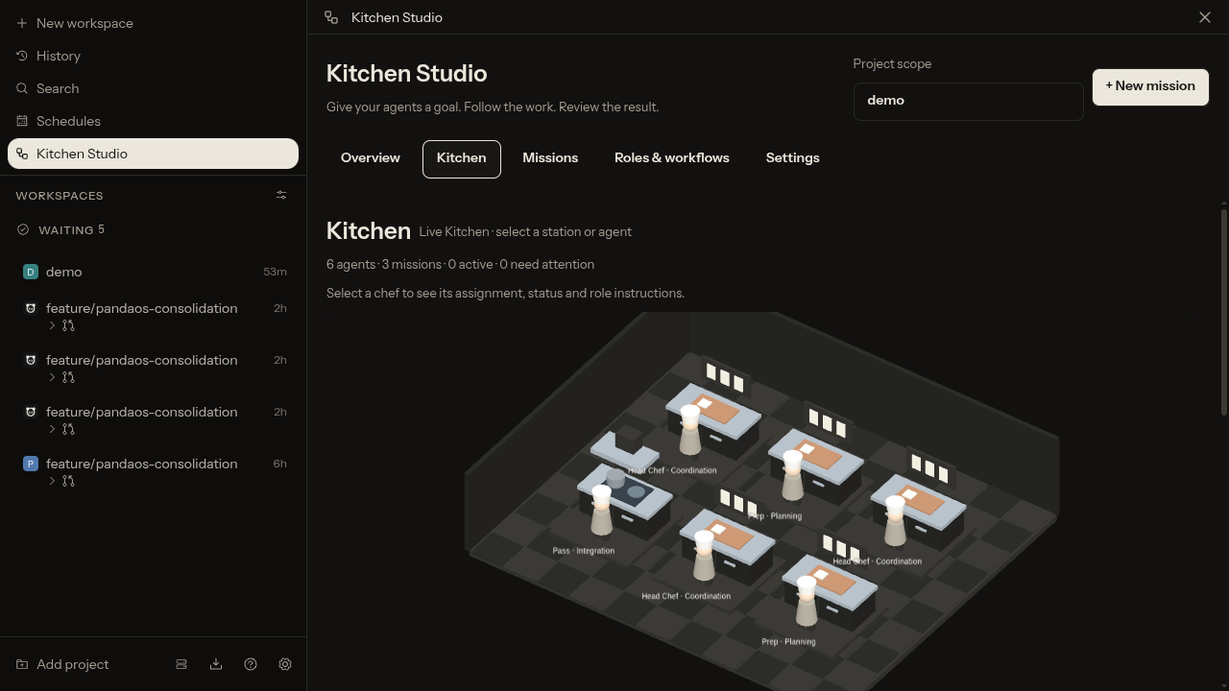
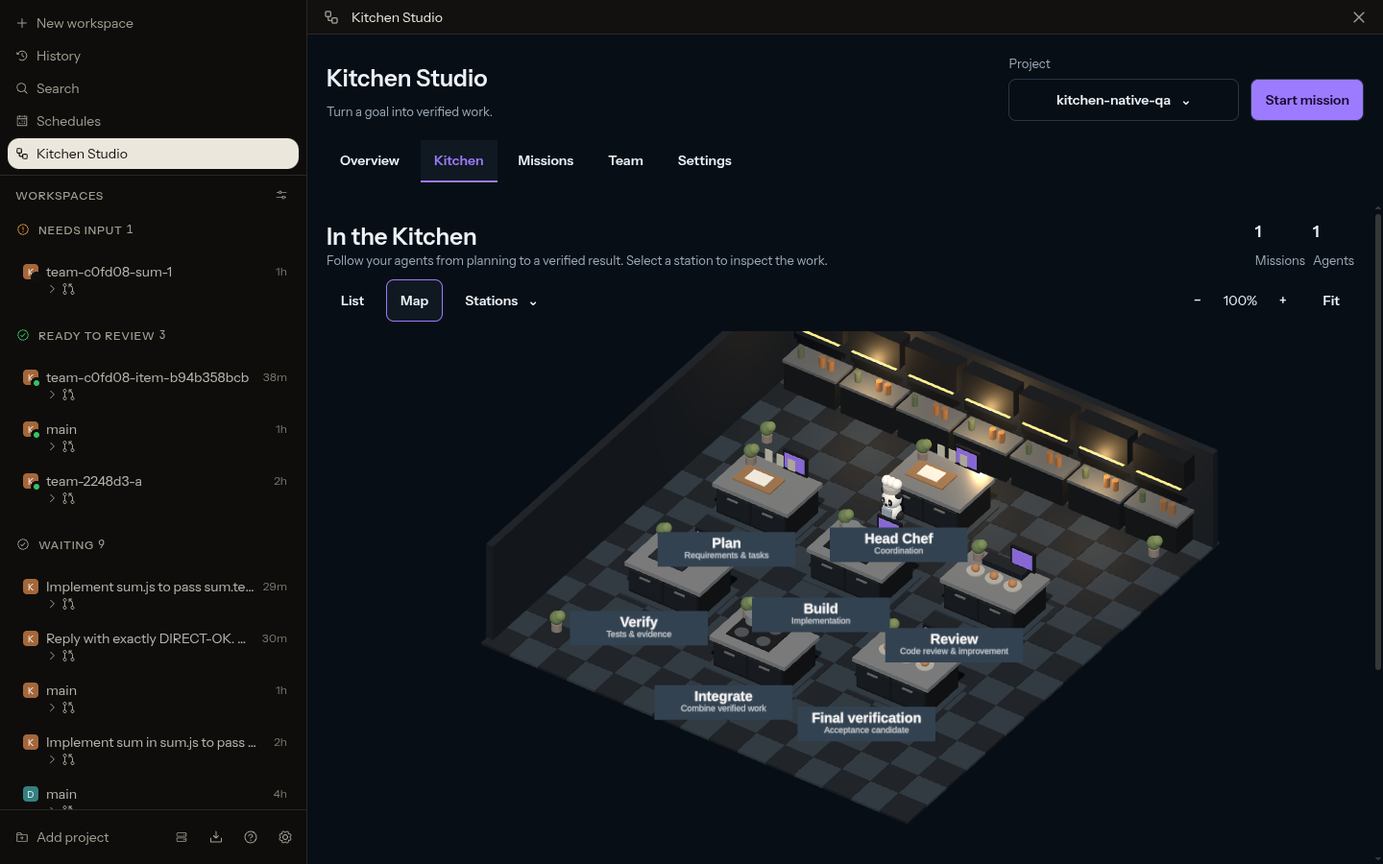
docs: explain native Kitchen flow with verified Studio screens

diff --git a/README.md b/README.md
@@ -1,6 +1,6 @@
 # Kitchen Studio
 
-A portable Paseo plugin for turning a goal into verified software. Give your Head Chef a feature, backlog or product goal, follow the agents in the live Kitchen, answer their questions and inspect the result before accepting it. The work dashboard and software factory share one plugin. Projects are selected once in the Studio header.
+A portable Paseo plugin for turning a goal into verified software. Give your Head Chef a feature, backlog or product goal, follow the agents in the live Kitchen, answer their questions and inspect the result before accepting it. The work dashboard and software factory share one plugin. Choose the project in the normal workspace composer; the Studio header scopes its mission views.
 
 A Head Chef coordinates remaining work, isolated developer worktrees, editable reviews, independent verification, combined integration and human acceptance. The plugin owns its persisted jobs, bindings, queue, evidence, runtime limits and Kitchen schedules. It uses public Paseo APIs and the public host CLI.
 
@@ -8,7 +8,7 @@ The hierarchy is inspired by [Agent Crew](https://paseo.cafe/plugins/agent-crew/
 
 ## Install and configure
 
-The plugin-only repository is [marushan491/paseo-kitchen](https://github.com/marushan491/paseo-kitchen). Clone it directly; the plugin is open source under Apache-2.0. Install it on a supported Paseo host; no source changes to the host are required.
+The plugin-only repository is [marushan491/paseo-kitchen](https://github.com/marushan491/paseo-kitchen). Clone it directly; the plugin is open source under Apache-2.0. Install it on a supported Paseo host. Runtime, Studio and CLI use public plugin APIs. The native composer entry needs the generic execution-mode capabilities described under [Host boundaries](#host-boundaries).
 
 Install dependencies, then install the cloned directory on the target host:
 
@@ -19,93 +19,185 @@ npm install --ignore-scripts
 paseo plugin install "$PWD"
 ```
 
-For PandaOS, use `pandaos plugin install` with the same directory. Enable plugins on that host. Open **Kitchen Studio** from the sidebar or command center. On hosts without a global plugin screen, open its workspace panel. Open **Settings → Connection & capacity**: choose the host connection once, then leave advanced fields collapsed. Configure:
+For PandaOS, use `pandaos plugin install` with the same directory. Set `pluginsEnabled: true` in the host's daemon configuration: installing a plugin does not enable the global plugin system. Run `paseo reload` (or `pandaos reload`) to apply that setting without restarting the daemon, then check `paseo plugin ls`.
+
+Open **Kitchen Studio** from the sidebar or command center. On hosts without a global plugin screen, open its workspace panel. Under **Settings → Connection & capacity → Advanced → Host connection**, choose this host's connection once. Keep advanced fields collapsed during ordinary use. Configure:
 
 | Setting                   | Value                                                                                                                                                    |
 | ------------------------- | -------------------------------------------------------------------------------------------------------------------------------------------------------- |
 | Data directory            | Leave empty when the host provides plugin storage. Otherwise choose an absolute directory outside all project checkouts, dedicated to this installation. |
 | Daemon home               | The absolute home of this host. An explicit inherited `PASEO_HOME` also works.                                                                           |
-| Daemon endpoint           | Alternative to Daemon home, pointing to this same host. Do not set both.                                                                                 |
+| Daemon WebSocket address  | Alternative to Daemon home, pointing to this same host. Do not set both.                                                                                 |
 | CLI executable            | `paseo`, `pandaos`, or the absolute path to the installed CLI.                                                                                           |
 | CLI arguments             | Optional argument prefix when the executable is a launcher.                                                                                              |
 | Pack directory            | Optional absolute directory containing trusted `<pack>/pack.mjs` modules.                                                                                |
-| Maximum concurrent agents | Requested concurrency across managed teams; the built-in runtime caps active Cooks at four.                                                              |
+| Maximum concurrent agents | Maximum simultaneous Cooks across this host’s managed teams. Default: four; accepts a positive integer.                                                  |
 
 Reload the plugin after changing storage, host, CLI or pack settings. Concurrency updates apply immediately. Kitchen preflight checks the configured CLI before creating agents. Every CLI mutation compares the selected agent with the public SDK snapshot to prevent operation against the wrong daemon. There is no implicit production-host fallback.
 
 ## Start your first mission
 
-1. Choose a project in the Studio header and click **New mission**.
-2. Describe the goal and the observable results under **Done when**. The goal can span several features.
-3. Keep **Until the goal is done**. The Head Chef plans work and agents can request the next scoped tasks and dependencies as they discover what remains.
-4. Open **Agent model** only to change the selected provider/model. **Roles & workflow** explains the built-in roles and lets you add instructions and installed skill names for each role.
-5. Click **Start Kitchen**. Follow the mission, answer questions in Team chat and inspect its verification evidence when it becomes **Ready for human**.
+1. Open the normal **New workspace** composer and choose the project and workspace context.
+2. Choose **Kitchen** as the execution mode, then choose its **team preset**.
+3. Explain the outcome, domain rules, constraints and observable success in the normal message. Attach screenshots, files and supported resource references as you would in a direct chat.
+4. Send. Kitchen creates one mission linked to an ordinary Head Chef session in that workspace. The draft remains until startup succeeds; retries reuse the request identity.
+5. Continue in that chat. **Open Kitchen** opens the same mission in the Studio. Review its actual evidence when Standard team reaches **Ready for human**.
 
-The default role chain is Head Chef → Developer → Reviewer → Verifier → Integrator → Final Verifier. You do not have to create profiles before starting. **Advanced options** contains execution classification, alternate packs, optional budgets and PR publication. Automatic execution uses the configured decision provider to choose Single or Team; it is separate from the host's model-selection setting.
+From Kitchen Studio, **Start mission** opens the same native composer with Kitchen and the current project selected. You do not fill out a separate title/goal/criteria form. The first complete message is the brief; planning turns it into scoped work and observable item criteria. Kitchen waits for the host to accept that initial message before dispatching work. Follow-up messages and their resource references stay attached to that mission. Images remain in the ordinary host conversation.
 
-The built-in Team Kitchen has no implicit token, cost, duration, delegation-depth or additional-item caps. Single execution does not delegate; external packs can define their own structural limits. The default capacity is four concurrent Cooks; queued work continues as capacity becomes available. An explicit budget remains binding. A missing provider quota, human answer or required evidence can pause progress; Kitchen resumes through its persisted runtime rather than inventing a successful result. It stops when the stated goal has a verified result and waits for acceptance. It does not automatically approve, merge or deploy.
+![Native Kitchen composer with a real unsent draft](docs/screenshots/native-composer.png)
+
+This is the normal composer with **Kitchen** selected. The pictured draft has not been sent; work starts only on Send.
+
+![Native team presets, including a saved custom team](docs/screenshots/team-presets.png)
+
+The picker shows **Standard team**, **Basic team** and the actually saved **Layout QA team** variant. Saving a team puts it in this host's catalog; it does not change a project default.
+
+The chat's persisted Kitchen mission card shows the selected team, current stage, mission status and observed working-agent count. **Open Kitchen** opens that same mission after a reload as well. Answer clarification questions in the normal Head Chef conversation. For Standard team, review and accept the verified result in the Studio's **Evidence** view.
+
+![Original Head Chef brief and persistent Kitchen mission card](docs/screenshots/native-chat.png)
+
+The original message and mission card remain in the ordinary conversation. Here the real mission is **Final result ready — Needs you**. **Review result** opens its evidence; acceptance is still pending. The image attachment is not displayed in this captured bubble.
+
+| Team preset       | Actual delivery path                                                                                                                                                                                                  |
+| ----------------- | --------------------------------------------------------------------------------------------------------------------------------------------------------------------------------------------------------------------- |
+| **Standard team** | Plan → Build → editable Review → independent Verify → Integrate → independent final verification → human acceptance.                                                                                                  |
+| **Basic team**    | Plan → Build → Test → Review → Done. A lighter pack without Standard team's final integration, independent final Verifier or acceptance gate.                                                                         |
+| **Project teams** | Available trusted external packs or saved custom delivery teams, using their own declared paths. A configured but unavailable default requires an explicit choice; Kitchen does not silently substitute another team. |
+
+Standard and Basic are friendly names for the persisted `kitchen` and `software-basic` packs. The native picker includes available external delivery packs and valid saved Standard-team variants. Insights, Gardener and Single remain available for their analytical or structured entry paths. **Manage teams** opens **Team** in Kitchen Studio. On a phone, open the **Team preset** sheet to find it; desktop also shows the action beside the preset.
+
+Standard team is goal-driven by default. The Head Chef plans work and permitted roles can request additional scoped tasks and dependencies as they discover what remains. Structured CLI/RPC starts can request a fixed plan instead. Team role/provider/model preferences belong in **Team** and project defaults, rather than a separate Developer selector in the Kitchen composer.
+
+The built-in Standard team has no implicit token, cost, active-time, delegation-depth or additional-item caps. The default capacity is four concurrent Cooks; configure a positive maximum under **Settings → Connection & capacity**. Queued work waits for a free slot. Explicit budgets and the selected pack's structural rules remain binding. Missing provider capacity, a required human answer or evidence can pause progress. The persisted runtime resumes work without inventing a successful result. Standard team waits for explicit acceptance after verification; it does not automatically approve, merge or deploy.
 
 ## Screens and navigation
 
-Screenshots below show an installed plugin in PandaOS using an isolated demo project and example historical mission records. They document the interface, not a claim that the example agents are currently working. Web and desktop have the 3D Kitchen; native clients retain the selectable role list.
+The Studio has one project selector. Choose **All projects** to see this host's missions across projects. Screenshots below show the verified interface in an isolated demo project. The live mission used free OpenCode Muse; deterministic layout checks did not call Jev or a paid model. A screenshot records an observed state and does not prove current agent activity.
 
-| Screen                | What you do here                                                                                                                                                                    |
-| --------------------- | ----------------------------------------------------------------------------------------------------------------------------------------------------------------------------------- |
-| **Overview**          | Find the next human action. **Needs you**, **Activity** and **Problems** share this page instead of duplicating navigation. Open a session, inspect its handoff or snooze an entry. |
-| **Kitchen**           | See actual role bindings at kitchen stations. Select a chef or role card to inspect its agent, open the mission or configure its next role agent.                                   |
-| **Missions**          | Start a goal, select a persisted run, answer questions in Team chat and inspect work items, dependencies and acceptance evidence.                                                   |
-| **Roles & workflows** | Read the standard responsibilities. Customize a role or save reusable instructions, ordered steps, skills and optional provider/model overrides.                                    |
-| **Settings**          | Set host connection and capacity once. Dashboard preferences, migration and automatic follow-up rules live in separate sections; technical fields are collapsible.                  |
+| Screen       | What you do here                                                                                                                                                        |
+| ------------ | ----------------------------------------------------------------------------------------------------------------------------------------------------------------------- |
+| **Overview** | Find actual questions, permissions and blocked work under **Needs you**. Open active missions, inspect problems, recently completed results and scheduled work.         |
+| **Kitchen**  | Follow real agents at Plan, Build, Review, Verify and Integrate stations. Select an agent or station, open its conversation or mission, and adjust its next role agent. |
+| **Missions** | Filter **Active**, **Needs you**, **Completed**, **Scheduled** or **All**. Open a mission's stages, evidence, activity and Team chat.                                   |
+| **Team**     | Configure an executable team variant: roles, model preferences and handoffs. Save reusable role recipes separately.                                                     |
+| **Settings** | Set connection and capacity. Dashboard preferences, migration and improvement rules have their own sections; technical fields are expandable.                           |
 
 ### Overview
 
-![Overview with project scope and next action](docs/screenshots/overview.png)
+![Kitchen mission overview](docs/screenshots/overview.png)
 
-The header's project scope also filters the Kitchen, missions, activity and schedules. Select **All projects** for a cross-project view. A session's Done/Reopen and snooze preferences belong to the dashboard; accepted mission state remains separate from merely finishing an agent turn.
+**Needs you** comes from this host's Kitchen missions: the Head Chef, linked source session and persisted Cook bindings. Unrelated chats stay outside the Studio. A completed Cook turn alone does not demand human attention. Questions use the mission's persisted question record; final acceptance uses its verified candidate.
+
+Open a question to answer it, or review the result before acceptance. Snooze hides a request temporarily; it neither answers it nor stops work. Dashboard Done/Reopen affects dashboard preferences without archiving agents or changing mission acceptance. Accepted missions contribute Done only when no linked work remains active.
+
+**Settings → Dashboard** can import existing snoozes. Kitchen schedules have persisted kickoff outcomes and links to their missions. Ordinary host cron schedules remain in Paseo's Schedules screen.
 
 ### Kitchen
 
-![Live Kitchen with role stations and selectable chefs](docs/screenshots/kitchen.png)
+![Live Kitchen with selectable stations](docs/screenshots/kitchen.png)
 
-Preparation boards, cooking stations, review plates and verification sinks correspond to real roles. Furniture remains visible in an empty Kitchen; chefs appear only for actual bindings. Selecting a station connects the visualization to the agent and mission controls below it.
+Use **Map** to see the Kitchen, or **List** (**Stages** on compact layouts) for role cards. Desktop and browser use the procedural Three.js scene. Native clients and hosts without WebGL use the native map; the stage list remains available. Zoom and **Fit** control the viewport.
 
-### Missions and starting work
+Stations stay visible in an empty Kitchen. Agents appear only for actual mission bindings. Drag the background to pan; the wheel, zoom controls and **Fit** adjust the viewport. Select a chef or station to open the desktop inspector; compact layouts use a bottom sheet. It shows the real assignment, available provider/model information, recorded activity and **Open agent**, **Open mission** or **Configure role** actions. Missing snapshots are marked unobserved. Waiting for provider capacity does not appear as productive work; the scene invents neither usage nor background traffic.
 
-![Missions for the selected project](docs/screenshots/missions.png)
+<details>
+<summary>Station, agent and empty-Kitchen examples</summary>
 
-![Goal-first mission form with expandable roles](docs/screenshots/mission-form.png)
+![Actual Head Chef assignment and available actions](docs/screenshots/kitchen-agent.png)
 
-The persistent start button explains missing required input. Name, goal, acceptance criteria and project are the essentials. Roles inherit the chosen host settings and built-in pack instructions until you override them. Budgets and publication settings stay under **Advanced options**.
+The selected agent shows its actual free OpenCode model and idle state. **Open agent** returns to its conversation; **Open mission** opens the persisted work; **Configure role** affects its next new role binding.
 
-### Roles and workflows
+![Review station without an assigned agent](docs/screenshots/kitchen-station.png)
 
-![Built-in roles and reusable workflows](docs/screenshots/roles-workflows.png)
+The Review station explains its purpose and says **No agent assigned** when no Cook is there.
 
-Use **+ Role** or **Customize** on a standard role. Choose the executable step, give the role a name and describe its task, responsibility and expected outcome. Templates already contain the pack's real instructions. The handoff graph shows which outcome starts the next role, including returns for corrections and the wait for child results.
+![Empty Kitchen for an existing project](docs/screenshots/kitchen-empty.png)
 
-Save the role, then assign it to that step under **Roles & workflow** when starting a mission. For example, a named Reviewer can own accessibility checks and hand back `pass` or `changes` with evidence. Saving a profile does not create an extra execution stage. Custom stages and connections belong to a workflow pack. Instructions, ordered steps, installed skills and model preferences remain available in expandable sections. Naming a skill does not install it; the harness must report a missing skill.
+An existing project with no mission shows **Ready to cook** and retains its stations. **Start mission** opens the native composer.
+
+</details>
+
+### Missions
+
+![Compact mission rows](docs/screenshots/missions.png)
+
+Each row shows the mission's current stage, task progress, observed working agents and age. Opening it keeps the same persisted mission. Its selected team revision supplies the stage names, including custom teams; changing a catalog team does not rewrite historical missions.
+
+**Stages** tells the story of actual work and returns for corrections. **Evidence** shows recorded criterion evidence, checks, artifacts and the verified final candidate. A stage finishing alone is not proof that every test ran. **Activity** shows recent meaningful transitions. **Team chat** records answers and sends them to the actual Head Chef; its complete provider conversation remains expandable.
+
+![Real mission stages after independent verification](docs/screenshots/mission-detail.png)
+
+The stage view follows this one mission. Completed stages lead to **Ready for acceptance** rather than silently accepting the result.
+
+![Criterion evidence recorded by the final Verifier](docs/screenshots/mission-evidence.png)
+
+The evidence view distinguishes the goal, reported criterion evidence and recorded checks. This actual final Verifier report includes the additional `sum(2.125, 4) = 6.125` check.
+
+![Current final candidate with recheck and acceptance actions](docs/screenshots/mission-final-candidate.png)
+
+**Recheck final candidate** dispatches another final Verifier for this same candidate when new context needs verification. **Accept verified result** checks the current evidence and candidate again before explicit approval; rechecking does not accept or publish.
+
+**Technical details** retains work items, dependencies, bindings, retries, runtime controls, role overrides and the full event history. Pause prevents new dispatch; current turns may finish. Acceptance and publication remain explicit actions with their existing checks.
+
+### Team
+
+![Team roles and handoff graph](docs/screenshots/roles-workflows.png)
+
+A **team preset** selects how a mission executes. A **workflow pack** is its technical runtime definition. A **role preset** is a reusable recipe for one role's instructions, steps, skills and model preferences.
+
+Select a baseline or saved team in the editor. Select a role to edit its responsibility, instructions, installed skill names and optional provider/model settings. **Head Chef preferences** configures the ordinary coordinating session for new missions using that team. Select a connection to inspect its actual outcome and target, change its draft target or restore the inherited return limit. **Save changes** validates and persists a new revision. Existing missions keep their executed snapshot.
+
+Choose the **Work board** you want to edit. **Mission plan and integration** coordinates planning, combined integration and final verification. **Task build and verification** controls each individual task's Build, Review and Verify path. **Graph** shows the actual handoffs; **List** provides the same stages and connections in a compact layout. Selecting a role or connection opens its editor. **1:1** uses actual size; **Fit** shows the whole workflow. Drag the graph background to pan, or use zoom controls to inspect a handoff.
+
+Custom executable variants use the verified Standard or Single baseline. The runtime preserves the final integration/verification/acceptance path and independent Verifier policy. You can customize the Verifier's title, instructions and skills while its workspace, tools and read-only policy remain protected. Every successful item path still requires Review and independent verification.
+
+**Ask Kitchen to change this team** produces a typed Jev preview. Supported changes include conditional Security/Database reviews, editable or read-only review, returns to Build, clarification routing, work requests and Head Chef architecture decisions. Inspect the preview before applying it. Ambiguous, unsupported or low-confidence requests do not silently change the team. This feature does not generate arbitrary executable code or remove verification gates.
+
+Conditional reviews inspect actual committed Git changes against their baseline. The configured relative paths or suffixes decide whether a check runs. A persisted skip appears as **Skipped · no matching changes**, separately from completed checks. A later return to that phase invalidates the previous skip. Missing change evidence blocks progress rather than silently bypassing a check. Reusable recipes live under **Reusable role presets**. Naming a skill does not install it; the selected harness must have it available.
+
+<details>
+<summary>Task workflow, role editor and connection inspector</summary>
+
+![Task build and verification workflow](docs/screenshots/workflow-task.png)
+
+This work board controls individual tasks, including Review/Verify returns to Build. It is separate from the mission's combined integration path.
+
+![Role responsibility, inherited model, skills and communication](docs/screenshots/role-editor.png)
+
+Select a role to configure its responsibility, model inheritance, installed skills and when it should ask the Head Chef or you. **Save role** updates the draft; **Save changes** validates and saves the team revision.
+
+![Real report outcome and draft route settings](docs/screenshots/workflow-connection.png)
+
+The connection inspector explains which actual report outcome chooses the next stage. Editing the draft does not alter a running mission's selected revision.
+
+</details>
 
 ### Settings
 
-![Connection and capacity with advanced settings collapsed](docs/screenshots/settings.png)
+![Connection and capacity settings](docs/screenshots/settings.png)
 
 Set concurrent Cooks to control simultaneous execution. Connection, storage and external-pack fields are disclosed when needed. Changing host or storage requires reloading the plugin; changing capacity applies immediately.
 
-## Dashboard and Kitchen
+### Compact layouts
 
-Overview belongs to this host's Kitchen missions. It reads only the Head Chef, source agents and persisted Cook bindings; unrelated chats are excluded even when they share a workspace. **Needs you** contains actual permissions, blocked providers, mission questions and final acceptance. An ordinary completed Cook turn does not ask the human to take over. The Studio project selector scopes missions and their requests.
+These are real 390-pixel browser captures. They verify the compact layout, rather than native Android device rendering. **Stages** is the compact default; the optional **Map** scrolls within the Studio. Agent details open in a sheet. Changing width preserves the selected project, view and inspector. Kitchen controls and native team-preset rows have 48-pixel touch targets. **Manage teams** stays reachable at the bottom of the preset sheet.
 
-Open a question to reply in mission chat; open a verified result to inspect its evidence before acceptance. Snooze temporarily hides a request and does not stop work or answer it. Dashboard preferences persist in the plugin's own store. **Settings → Dashboard** can import existing snoozes. Accepted missions contribute Done only when no linked work remains active. Dashboard Done/Reopen affects its own view without archiving agents or rewriting workspace metadata.
+| Stages                                                                               | Map                                                                                               | Agent inspector                                                                              | Team preset sheet                                                                                                      |
+| ------------------------------------------------------------------------------------ | ------------------------------------------------------------------------------------------------- | -------------------------------------------------------------------------------------------- | ---------------------------------------------------------------------------------------------------------------------- |
+| <img src="docs/screenshots/mobile-stages.png" alt="Compact stage cards" width="240"> | <img src="docs/screenshots/mobile-map.png" alt="Compact Kitchen map after scrolling" width="240"> | <img src="docs/screenshots/mobile-agent.png" alt="Actual agent inspector sheet" width="240"> | <img src="docs/screenshots/mobile-presets.png" alt="Native preset sheet with visible Manage teams action" width="240"> |
 
-**Activity** shows linked Kitchen work; **Problems** shows its failures. Kitchen schedules retain their own persisted kickoff outcomes and links to missions. Studio does not poll or display unrelated host cron schedules; those remain in Paseo's Schedules screen.
+Capture identities and image hashes are retained in [the screenshot receipts](docs/screenshots/captures.json).
 
-Kitchen projects real mission bindings and public agent snapshots into cooking stations. On web and desktop, the interactive 3D scene lets you select a chef or station, inspect the agent or open its mission. Native clients use the role list. When WebGL is unavailable, the role list remains available with the renderer's reason. Missing live agent data is marked unobserved; the scene does not invent activity or usage.
+## Mission continuity and acceptance
 
-## Run a Kitchen mission
+The native Head Chef is an ordinary Paseo/PandaOS session, so it uses normal History, Pinned, workspace navigation, attachments and provider permissions. Its Kitchen label links to one authoritative plugin-owned mission. No separate chat database or Core KitchenSession entity is created.
 
-Open Kitchen Studio from the workspace Explorer, Sidebar or Command Center, then choose **New mission**. From an agent, choose **Hand off to Kitchen** to retain a source link and its provider/model/mode/thinking settings. You can also start from a project and explicitly select a provider and model.
+Startup creates or reuses a Head Chef in the actual selected workspace/directory and reserves the first message's stable identity before sending its full text, images and resource references through the normal SDK. Dispatch remains parked until the host acknowledges the initial brief. A reservation is not proof of delivery. Duplicate starts retry the same mission and message identity; reusing an identity with different content is rejected. The plugin records the actual project root, so a mission in an external worktree stays visible under its selected project.
 
-Enter a goal, optional specification and observable acceptance criteria. Choose Auto, Single or Team execution. Auto asks Jev AI System One for a typed decision from the goal, criteria, specification and bounded repository context; uncertain decisions require human input. Explicit Single/Team selection does not need Jev. Keep goal-driven work or choose a fixed plan; optional feature/bug/maintenance classification and alternate packs are under Advanced options. Duplicate submissions keep the same request identity; a reused identity with different content is rejected.
+Accepted follow-up messages are persisted and deduplicated in that mission's context, without sending a second copy to the Head Chef. An ordinary client answer can resume one current clarification, requirements or architecture question. Multiple simultaneous questions need an explicit selection; a general reply does not answer them all. Transport origin is not proof of a separate human identity and cannot authorize final acceptance or irreversible actions.
+
+Structured CLI/RPC starts still accept Auto/Single/Team task strategy, separate from the host's Auto model routing. Auto asks Jev System One for a typed execution decision from the goal, criteria, specification and bounded repository context; uncertainty needs human input. Explicit Single/Team does not require Jev. Optional budgets and PR publication settings remain explicit.
 
 The Kitchen pack runs:
 
@@ -121,7 +213,7 @@ Acceptance requires the current verified commit and a provisioned operator crede
 
 PR publication is a separate explicit action after acceptance. Configure its remote, branch and base when starting the mission, then approve publication against the accepted commit. A trusted local GitHub-compatible CLI performs the push and PR creation; successful publication is persisted for retry. No automatic merge or deployment occurs.
 
-Use **Team chat** to answer requests for human input: the plugin records the answer, resumes blocked work and sends the actual Boss message. **Agents** exposes read-only, paginated Cook histories. **Mission** contains the board, verification, insights and safety state. Mission records remain reachable independently of native agent tabs.
+Use **Team chat** to answer requests for human input: the plugin records the answer, resumes blocked work and sends the actual Head Chef message. **Stages**, **Evidence** and **Activity** expose the result without requiring raw event logs. **Technical details** keeps the work board, role settings, safety state and full history. Mission records remain reachable independently of native agent tabs.
 
 Pause stops new dispatch while current turns finish. Stop interrupts managed turns and leaves the run resumable. Cancel closes the run. Failed decisions and malformed reports retain their evidence and use bounded retry or human escalation. Reload retains running workers and recovers validated reports before sending new work.
 
@@ -133,11 +225,11 @@ Goal-driven Team Kitchens accept scoped additional work requests from authorized
 
 Schedules use the same Kitchen service and durable start identities. The UI supports cron, explicit time zones, run limits, expiry, pause/resume, manual kickoff, edits and deletion. Missing time zones mean UTC. A pending kickoff survives reload; lost success responses retry the same identity. Missed historical slots do not create a burst of backfilled jobs. Run history reports kickoff success or failure; delivery status belongs to the linked Kitchen.
 
-## Workflow profiles and role assignments
+## Role recipes and project defaults
 
-In **Roles & workflows**, save named profiles with instructions, ordered steps and installed skill names. Provider, model, thinking and permission settings are optional overrides. A workflow-only profile can omit the provider and inherit the chosen role's harness. Models must be advertised by the selected host; an unavailable model is rejected. Permission modes and thinking settings are passed to actual agent creation, rather than only displayed in the editor.
+In **Team → Reusable role presets**, save named recipes with instructions, ordered steps and installed skill names. Provider, model, thinking and permission settings are optional overrides. A workflow-only profile can omit the provider and inherit the chosen role's harness. Models must be advertised by the selected host; an unavailable model is rejected. Permission modes and thinking settings are passed to actual agent creation, rather than only displayed in the editor.
 
-Assign profiles to the selected pack's roles when starting a mission. Repository defaults use `.agent-factory/project.json`:
+Configure role overrides in **Team** for new native missions, or pass explicit role profiles through the structured CLI/RPC. Repository defaults use `.agent-factory/project.json`:
 
 ```json
 {
@@ -169,13 +261,15 @@ Assign profiles to the selected pack's roles when starting a mission. Repository
 
 The referenced profile must exist in this host's profile catalog. Omit `workflowProfileId` for an inline repository profile. Explicit fields override the referenced profile's values.
 
+For native entry, `workflowId` can select a saved Standard-team variant instead of `workflowPack`. It takes precedence; the team must be available on this host. Optional `headChef` accepts the same role-profile override fields to configure the ordinary coordinating session. **Head Chef preferences** in a saved team override those defaults. Explicit provider/model preferences are honored through manual host routing. A new mission snapshots the selected team revision; editing it later does not retarget running work. Explicit user selection takes precedence over the project default.
+
 Role settings start with the Head Chef's provider, model, mode and thinking. A project's role configuration, or the plugin's configured role default when the project has none, overrides that baseline. Mission role overrides take precedence; a workitem override takes precedence for its next new role agent. Unspecified fields inherit. Changing providers without selecting a model uses the new provider's advertised default.
 
 Resolved mission settings and each binding's executed profile are persisted as snapshots. Editing or deleting a catalog profile does not rewrite existing mission or agent configuration. From Kitchen or a workitem, **Apply to next role agent** records a pending override. It takes effect only when that workitem gets a genuinely new binding: existing agents, nudges and reused agents on a return to the same phase keep their executed profile. Changes during an active start dispatch, or to closed work, are rejected.
 
 Instructions and ordered steps enter the actual role prompt. They guide work within the selected pack's phase; they do not create extra engine phases, replace report schemas or bypass Review, verification or human acceptance. Worker instructions require no private company skills or PandaOS-specific MCP tools.
 
-Programmatic clients use `factory.profiles.list`, `factory.profiles.save`, `factory.profiles.remove` and `factory.work.configure`. Both start RPCs accept optional `roleProfiles`; see [the shared contracts](shared/factory-contracts.ts) for their inputs.
+Programmatic clients use `factory.profiles.list`, `factory.profiles.save`, `factory.profiles.remove` and `factory.work.configure`. Both structured start RPCs accept optional `roleProfiles`; see [the shared contracts](shared/factory-contracts.ts) for their inputs. Native starts resolve the selected team's and project's role settings.
 
 ## Reports
 
@@ -185,9 +279,21 @@ Reports are validated against the active binding and phase. Verification checks 
 
 ## Host boundaries
 
-Command Center contributions require a current host context: open a workspace or a plugin page first. The host does not expose plugin commands on the unscoped `/open-project` page. Kitchen’s Sidebar entry remains available there.
+Native entry uses generic client execution contributions (`addExecutionMode`, `openNewWorkspace`), the daemon's `agent.user_message_accepted` event carrying the accepted rich prompt, persisted plugin timeline annotations and trusted creation-caller provenance advertised by `server.supportsBeforeHookOrigin("agent.create")`. Kitchen is an orchestration mode; the host creates ordinary agents and conversations while the plugin owns mission state.
 
-The manifest targets Paseo/PandaOS 0.9.1 through 0.11.x. Newer hosts provide eager plugin API and storage; older hosts need explicit storage and host configuration. Configured older hosts bootstrap their own public SDK connection so persisted schedules resume without opening the UI. For a password-protected older host, configure its local Daemon home and preserve its existing `PASEO_PASSWORD` environment source; passwords are never stored in plugin settings. The plugin remains optional and uses its own `agent-factory.*` labels and state. Existing built-in PandaOS jobs continue in their existing coordinator; **Settings → Migration** inspects native stores, backs up selected sources and imports validated closed jobs as read-only history, profiles and trusted packs. Active jobs stay with their existing coordinator. Older pack modules must still be compatible with the public plugin API. `.pandaos/project.json` supplies validated role defaults when `.agent-factory/project.json` is absent.
+| Host                      | Native Kitchen entry                                                                                                                                     |
+| ------------------------- | -------------------------------------------------------------------------------------------------------------------------------------------------------- |
+| **Current PandaOS**       | Includes the native composer, rich accepted follow-ups, persistent mission card and trusted creation-origin capabilities required by the guarded plugin. |
+| **Paseo `0.11.0-beta.3`** | Does not expose these execution/lifecycle APIs. Use a capable host for the native flow.                                                                  |
+| **Other Paseo forks**     | Need the same generic public capabilities in both app and daemon. No Kitchen-specific Core entity is required.                                           |
+
+The manifest version range declares loader eligibility; it does not establish that every host version supports native entry. Older compatible hosts can inspect existing missions in Studio and use structured CLI/RPC starts with their supported baseline APIs. An unavailable native action shows an update requirement. Current upstream native compatibility beyond the published beta.3 API is unverified.
+
+The creation guard rejects unmanaged agent creation through the host API by the Head Chef of an open native mission. Factory-controlled workers still use the trusted plugin SDK path. Head Chef instructions require coordination, delegation through Kitchen and verified reporting; they do not provide an OS filesystem sandbox. The earlier `2203fd14c` host has the initial native APIs but lacks the creation-origin capability required by this plugin version. Both the app and daemon must provide their respective capabilities; a client build label alone does not establish daemon support.
+
+Command Center contributions require a current host context: open a workspace or a plugin page first. The host does not expose plugin commands on the unscoped `/open-project` page. Kitchen's Sidebar entry remains available there.
+
+The manifest targets Paseo/PandaOS 0.9.1 through 0.11.x. Newer hosts provide eager plugin API and storage; older hosts need explicit storage and host configuration. Configured older hosts bootstrap their own public SDK connection so persisted schedules resume without opening the UI. For a password-protected older host, configure its local Daemon home and preserve its existing `PASEO_PASSWORD` environment source; passwords are never stored in plugin settings. The plugin remains optional and uses its own `agent-factory.*` labels and state. **Settings → Migration** inspects native stores, backs up selected sources and imports validated closed jobs as read-only history, profiles and trusted packs. Active jobs are preserved and skipped; finish or stop them using their original compatible daemon before replacing it. Older pack modules must still be compatible with the public plugin API. `.pandaos/project.json` supplies validated role defaults when `.agent-factory/project.json` is absent.
 
 The public plugin API cannot veto native agent/workspace archiving, globally hide Cook tabs, replace the native Boss chat renderer, or move an existing agent into another workspace. This plugin keeps jobs in its own accessible UI and reports unsupported moves explicitly. It does not claim native enforcement of those features.
 
@@ -198,6 +304,8 @@ Mission limits can bound Worker starts, plugin-dispatched chain steps, managed d
 ## Jev and trusted verification
 
 Jev uses the real [TypeSafe System One API](https://docs.typesafe.ai/api), with validated choices, confidence, observed latency and usage. Existing PandaOS System One enablement and project exclusions are honored. On another Paseo host, enable it with `KITCHEN_SYSTEM_ONE_ENABLED=true` and a server-side TypeSafe credential. Credentials are read from the configured host's `secrets/system-one.json`, `TYPESAFE_API_KEY`, or `TYPESAFE_ENV_FILE` (default `~/.config/typesafe-ai/env`). Never put a key in plugin settings, role prompts or the repository.
+
+When System One is enabled, a substantive ordinary chat about a project with several connected areas can receive a Kitchen suggestion. Short greetings and existing Kitchen members are excluded. A confident Team decision creates one offer; **Review Kitchen mission** opens a prefilled native draft and work starts only when you send it. **Keep chatting** dismisses the offer locally. Set `KITCHEN_SUGGESTIONS_ENABLED=false` to disable these classifications. Team-editor natural-language previews and required outcome judging also use the configured external decision service.
 
 **Require trusted outcome judge** asks Jev to assess acceptance after physical checks. A semantic pass cannot authorize missing or failed independent checks. Low confidence or an unavailable required judge blocks acceptance.
 
